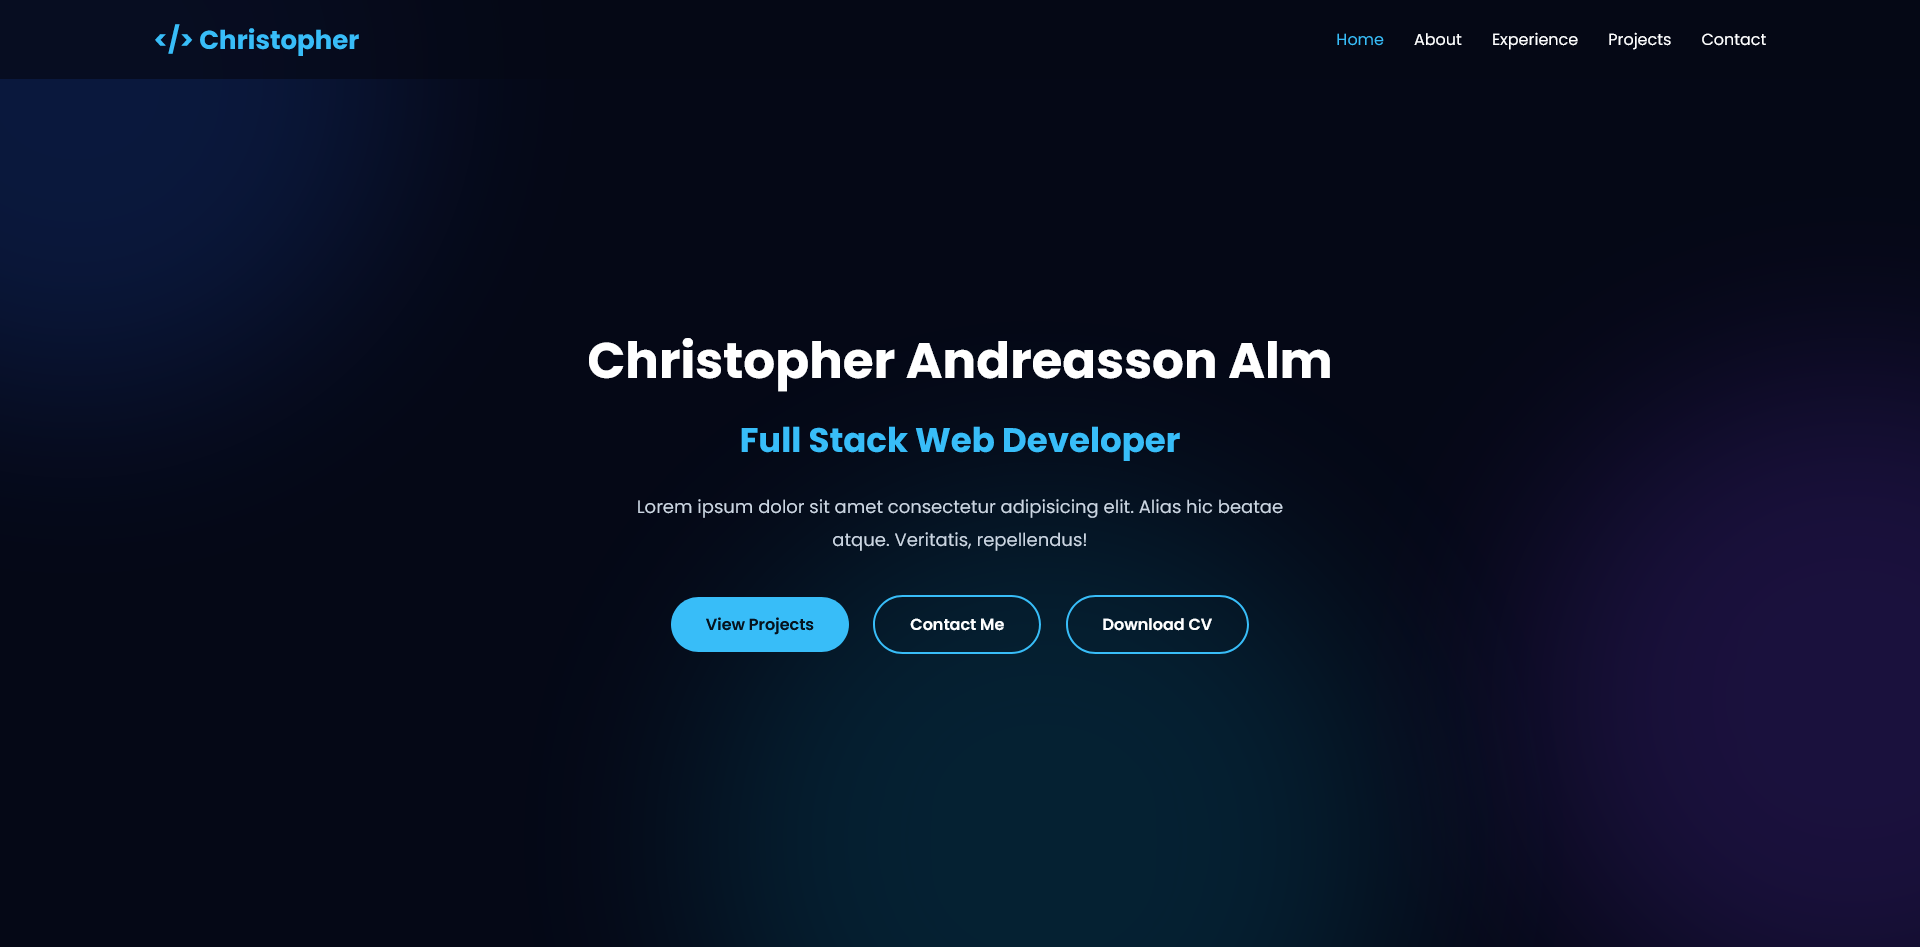
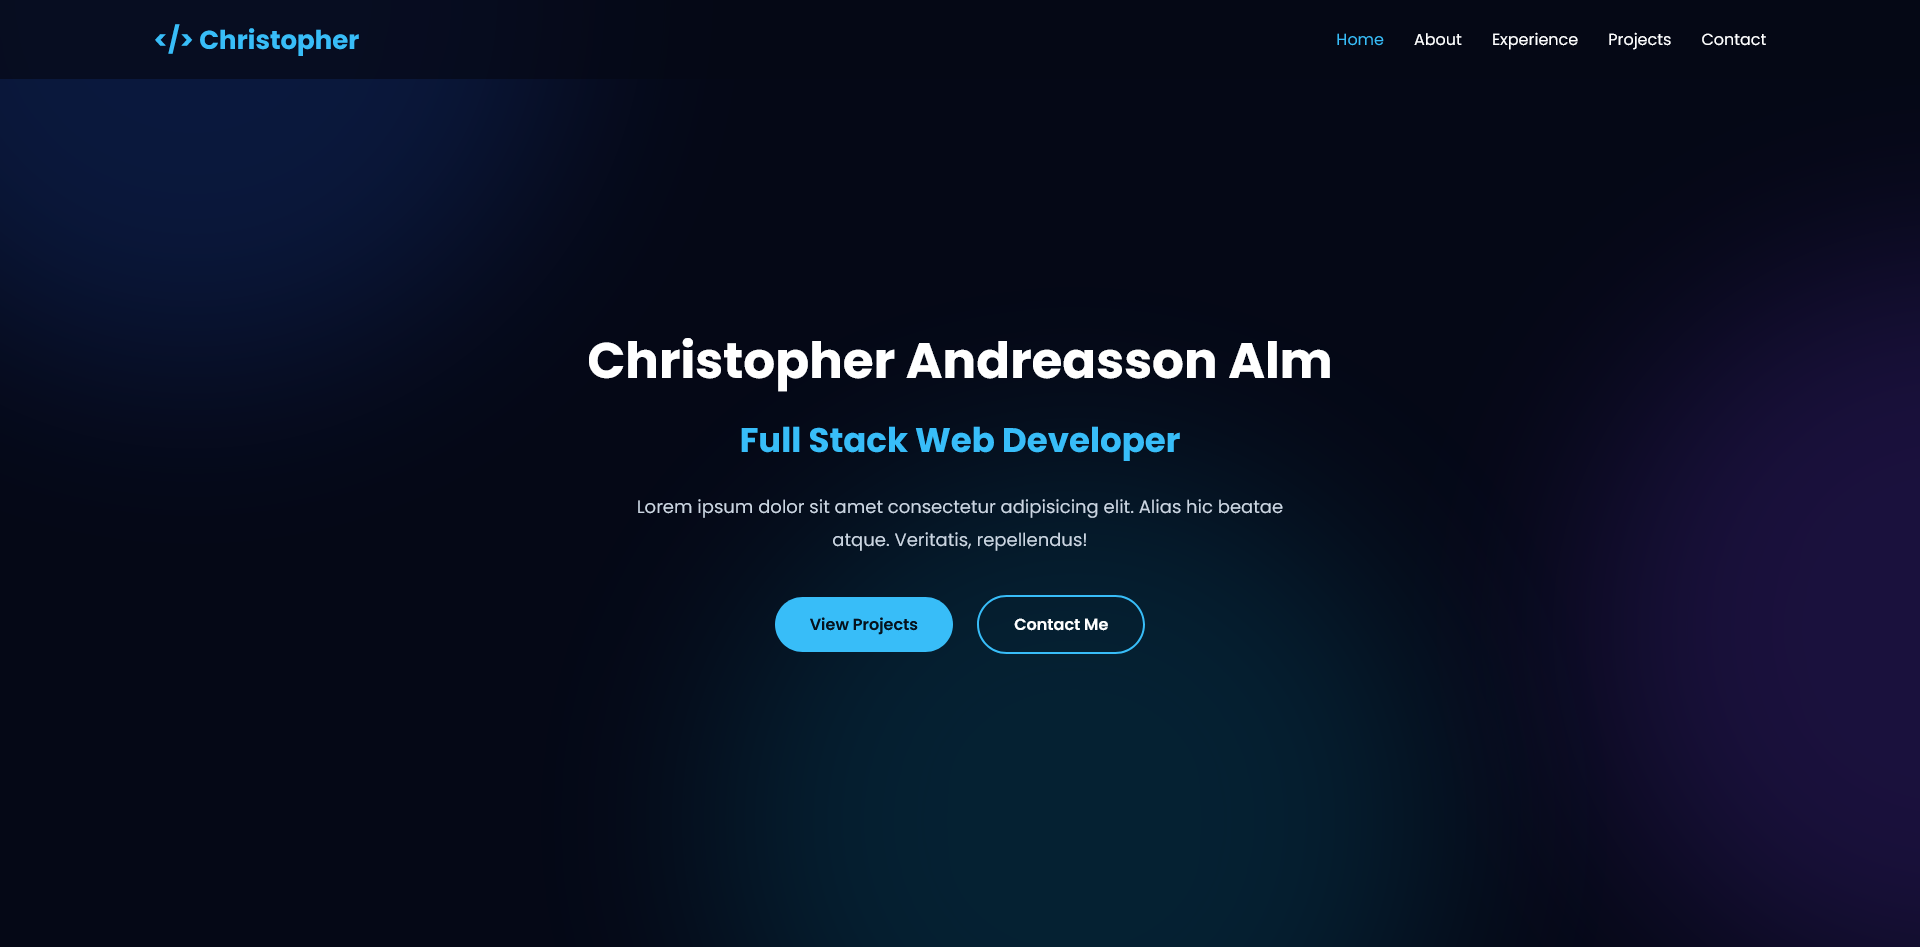
Update home and screenshot

Changed region(s): [[0.3438, 0.6125, 0.625, 0.7043]]

diff --git a/index.html b/index.html
@@ -100,12 +100,6 @@
 
                 </a>
 
-                <a href="CV.pdf" class="button outline" download>
-
-                    Download CV
-
-                </a>
-
             </div>
 
         </div>
